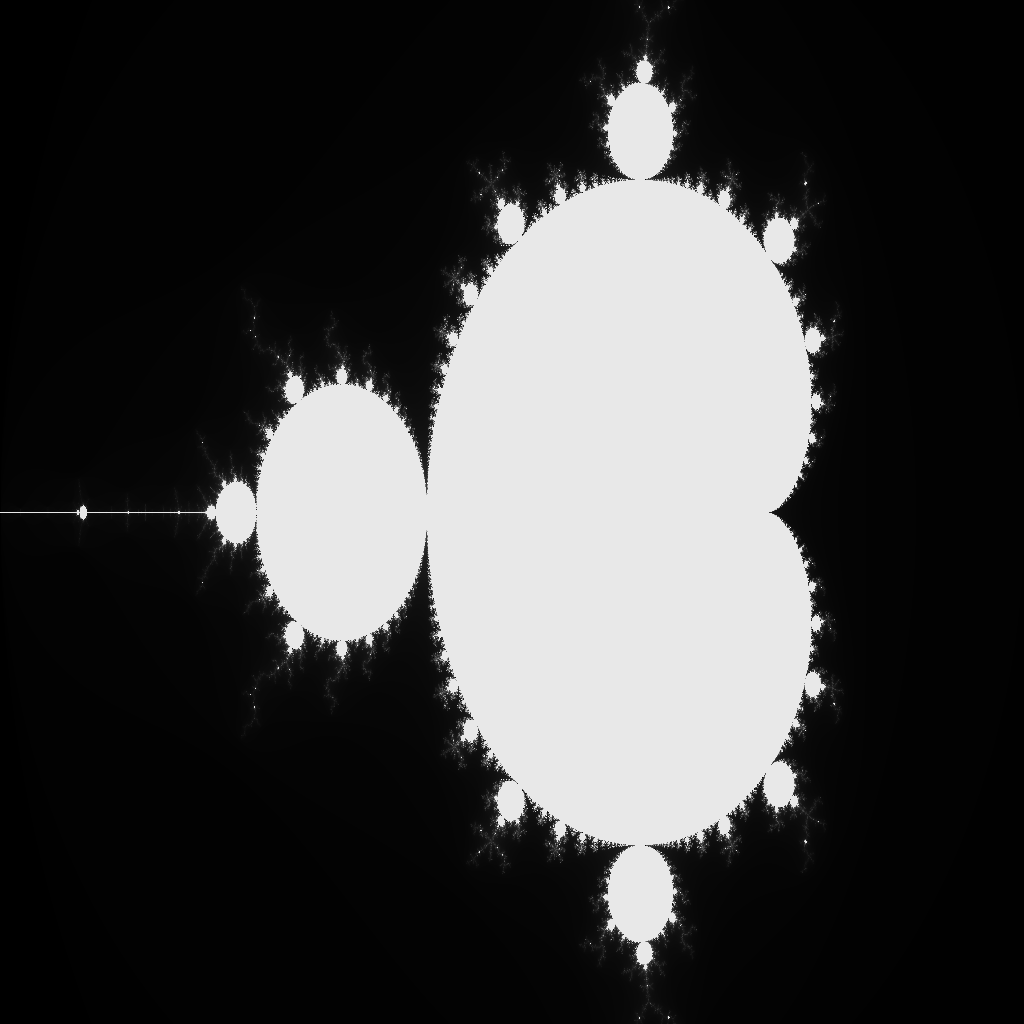
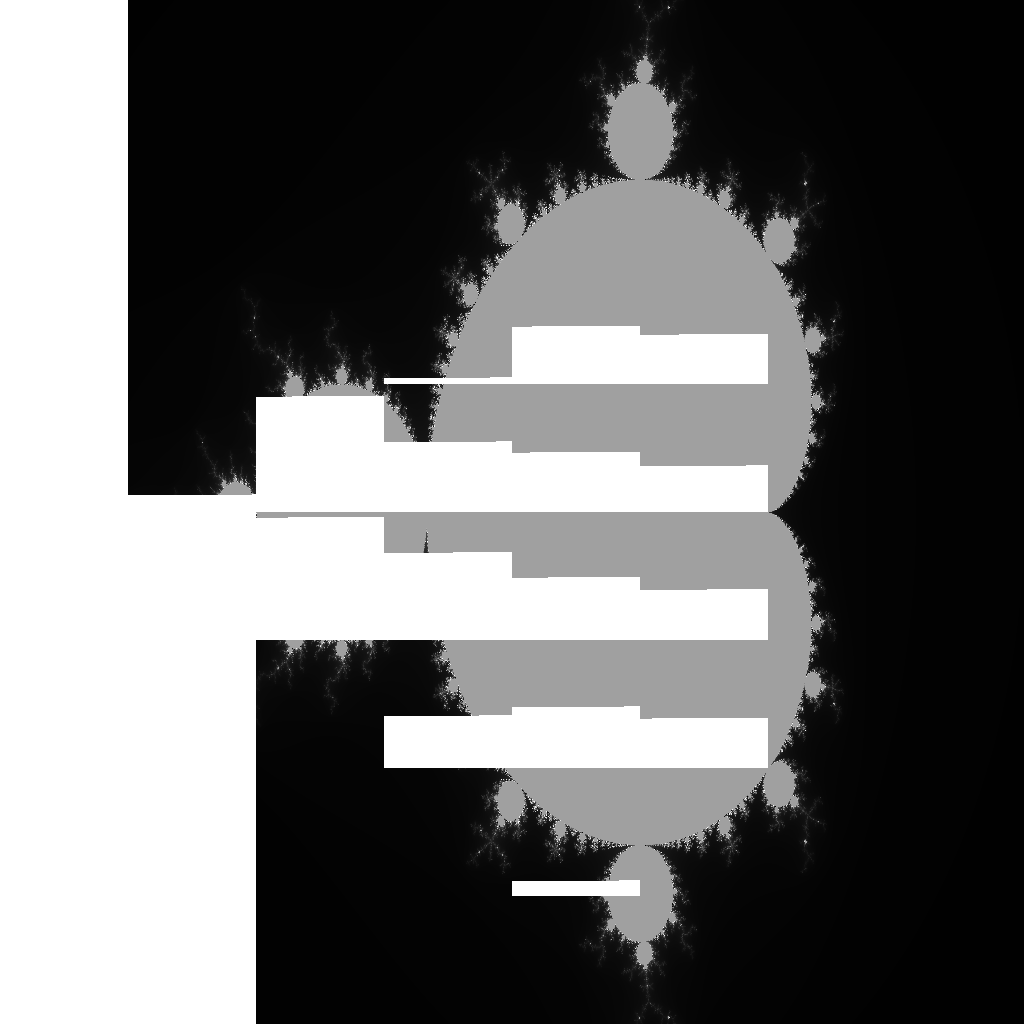
feat: add new benchmarks

diff --git a/bench_test.go b/bench_test.go
@@ -6,14 +6,8 @@ import (
 )
 
 func BenchmarkMandelbrot(b *testing.B) {
-
-	// maxIter := 1000
-	// samples := 200
-	// numBlocks := 64
-	// numThreads := 16
-
 	b.Run(fmt.Sprintf("%vx%v-%s", width, height, "sequential"), func(b *testing.B) {
-		for i := 0; i < 1; i++ {
+		for i := 0; i < b.N; i++ {
 			calculateFractal()
 			err := generatePNG("sequential", imgSerial)
 			if err != nil {
@@ -23,7 +17,7 @@ func BenchmarkMandelbrot(b *testing.B) {
 	})
 
 	b.Run(fmt.Sprintf("%vx%v-%s", width, height, "parallel"), func(b *testing.B) {
-		for i := 0; i < 1; i++ {
+		for i := 0; i < b.N; i++ {
 			workBuffer := make(chan WorkItem, numBlocks)
 			threadBuffer := make(chan bool, numThreads)
 			drawBuffer := make(chan Pixel, totalPixel)
@@ -31,11 +25,11 @@ func BenchmarkMandelbrot(b *testing.B) {
 			workBufferInit(workBuffer)
 			go workersInit(drawBuffer, workBuffer, threadBuffer)
 			go drawThread(drawBuffer)
+
+		}
+		err := generatePNG("parallel", imgParallel)
+		if err != nil {
+			b.Fatalf(`generatePNG(img) %e`, err)
 		}
 	})
-
-	err := generatePNG("parallel", imgParallel)
-	if err != nil {
-		b.Fatalf(`generatePNG(img) %e`, err)
-	}
 }

diff --git a/globals.go b/globals.go
@@ -2,11 +2,16 @@ package mandelbrot
 
 import "image"
 
+// maxIter := 1000
+// samples := 200
+// numBlocks := 64
+// numThreads := 16
+
 const (
 	width      = 1024.0
 	height     = 1024.0
 	totalPixel = width * height
-	maxIter    = 1000
+	maxIter    = 100000
 	numBlocks  = 64
 	numThreads = 16
 )
